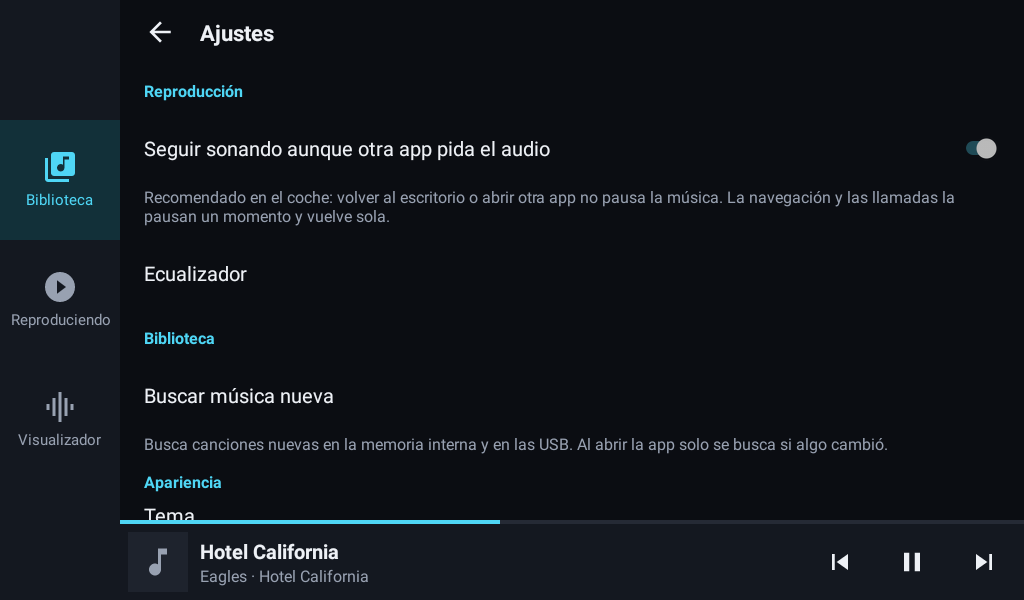
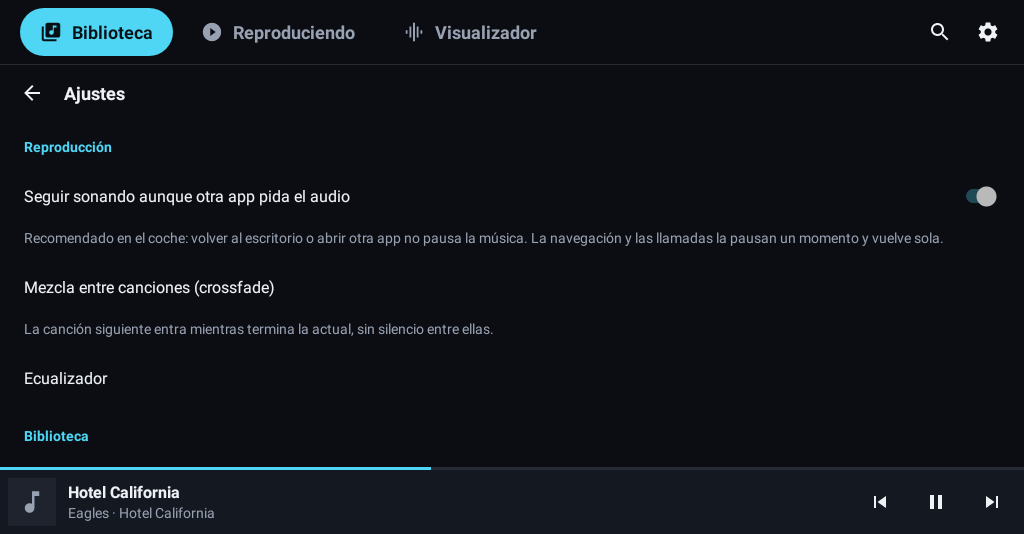
Docs: capturas del rediseño a 1024×534 y notas de la 0.12
Claude-Session: https://claude.ai/code/session_012dZvHdVuUJNBMhQ49X6f2G

diff --git a/docs/TARGET_DEVICE.md b/docs/TARGET_DEVICE.md
@@ -316,6 +316,17 @@ Conclusiones: el presupuesto de memoria (≤ 90 MB) se cumple con holgura; la el
 visualizador en Android 8.1 es la correcta. Restaurar una cola tan grande bloqueaba el hilo
 principal ~2 s al arrancar: desde la 0.10.2 se lee en segundo plano.
 
+### 0.12.x: crossfade y rediseño para 1024×534 (18-10-2026)
+
+- La barra del sistema del estéreo ocupa ~66 px: el espacio útil es **1024×534**, no 1024×600. Por
+  eso Android calcula un ancho mínimo de 534 dp y no aplicaba los recursos `sw600dp` (carátula de
+  280 en vez de 380, botones de móvil). El diseño ancho fija ahora sus medidas por ancho
+  (`values-w600dp`), y las capturas de CI se generan a 1024×534.
+- Propuesta 1 elegida por el usuario entre 10: sin raíl lateral; secciones como botones grandes en
+  una barra superior con Buscar y Ajustes; en «Reproduciendo», carátula de 360 dp, transporte a lo
+  ancho y acciones secundarias en tarjetas.
+- Crossfade de 2 a 12 s en Ajustes ▸ Reproducción (`CrossfadeController`).
+
 ### 0.11.0: integración con el estéreo Jancar (17-10-2026)
 
 Análisis estático de las apps de fábrica del equipo (servicio `com.jancar.services`, música,
@@ -355,7 +366,7 @@ cola y de la navegación, escaneo incremental con huella y rediseño de la inter
 
 ## 8. Galería
 
-Capturas generadas por CI (`ScreenshotTest`) a 1024×600 y 160 dpi con el tema oscuro. Se pueden
+Capturas generadas por CI (`ScreenshotTest`) a 1024×534 (espacio útil real) y 160 dpi con el tema oscuro. Se pueden
 añadir fotos del equipo real en `docs/screenshots/`.
 
 ![Biblioteca](screenshots/biblioteca.png)

diff --git a/README.md b/README.md
@@ -58,7 +58,7 @@ las teclas del volante y la vuelta al encender el auto.
 
 Nombre provisional: comprobar disponibilidad de marca antes de cualquier uso comercial.
 
-## Capturas (autoestéreo 1024×600)
+## Capturas (autoestéreo, 1024×534 útiles bajo la barra del sistema)
 
 | Biblioteca | Reproduciendo |
 |---|---|
